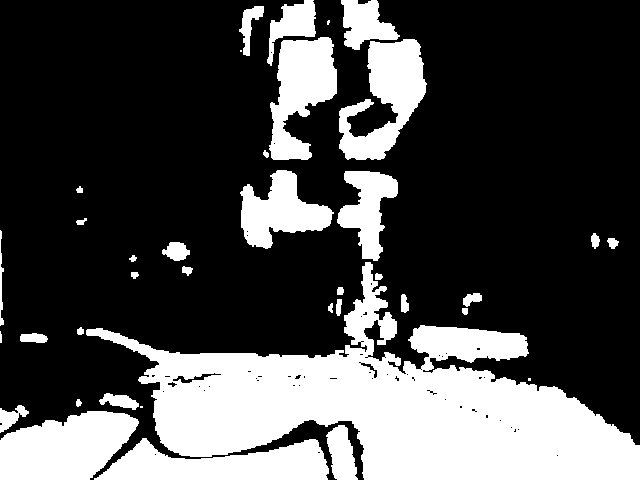
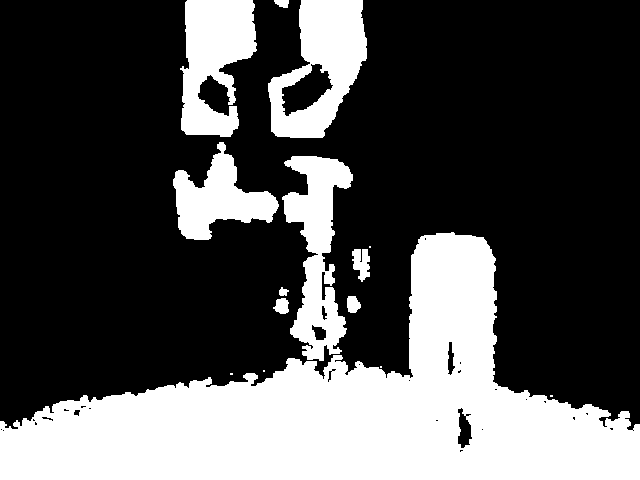
Added new place functions

diff --git a/Vision/CamaraMontada/cam_utils.py b/Vision/CamaraMontada/cam_utils.py
@@ -1,0 +1,100 @@
+import cv2
+import numpy as np
+
+def buscar_espacio_vacío():
+    """
+    Busca un hueco vacío en la zona de trabajo del robot para dejar una lata.
+
+    Devuelve:
+        (x_free, y_free): Coordenadas del centro de la casilla vacía, o None si no se encuentra.
+    """
+
+    cap = cv2.VideoCapture(3)
+    ret, frame = cap.read()
+    cap.release()
+
+    if not ret:
+        print("Error al capturar la imagen")
+        return None
+
+    gray = cv2.cvtColor(frame, cv2.COLOR_BGR2GRAY)
+
+    resultado, img_out = buscar_casilla_vacia(gray)
+
+    if resultado is None:
+        print("No se encontró ninguna casilla vacía")
+        return None
+
+    i, j = resultado
+
+    cv2.imshow("Resultado", img_out)
+    cv2.waitKey(0)
+    cv2.destroyAllWindows()
+
+    x_0 = 0  # Coordenada x de la primera cuadrícula
+    y_0 = 0  # Coordenada y de la primera cuadrícula
+    dx = 0.15  # Anchura aprox de la cuadrícula (m)
+    dy = 0.15  # Altura aprox de la cuadrícula (m)
+
+    return (x_0 + j * dx, y_0 + i * dy)
+
+    
+
+
+def buscar_casilla_vacia(gray_img):
+    """
+    Busca la primera casilla sin gradientes fuertes en una cuadrícula centrada en la imagen.
+    Los parámetros están fijados dentro de la función.
+
+    Parámetro:
+        gray_img (np.ndarray): Imagen en escala de grises.
+
+    Devuelve:
+        (i, j): Índices de la primera casilla vacía encontrada (columna, fila). None si no se encuentra.
+        annotated_img (np.ndarray): Imagen con la cuadrícula y la casilla vacía dibujadas.
+    """
+
+    # Parámetros fijos
+    delta_x = 50  # ancho de casilla
+    delta_y = 50  # alto de casilla
+    grid_cols = 8
+    grid_rows = 8
+    gradient_threshold = 30
+
+    # Tamaño de la cuadrícula
+    grid_width = delta_x * grid_cols
+    grid_height = delta_y * grid_rows
+
+    # Punto superior izquierdo (centrado)
+    h, w = gray_img.shape
+    top_left_x = w // 2 - grid_width // 2
+    top_left_y = h // 2 - grid_height // 2
+
+    # Calcular gradiente
+    grad_x = cv2.Sobel(gray_img, cv2.CV_64F, 1, 0, ksize=3)
+    grad_y = cv2.Sobel(gray_img, cv2.CV_64F, 0, 1, ksize=3)
+    grad_mag = cv2.magnitude(grad_x, grad_y)
+
+    # Imagen anotada
+    annotated_img = cv2.cvtColor(gray_img, cv2.COLOR_GRAY2BGR)
+
+    for j in range(grid_rows):
+        for i in range(grid_cols):
+            x = top_left_x + i * delta_x
+            y = top_left_y + j * delta_y
+            roi = grad_mag[y:y + delta_y, x:x + delta_x]
+
+            if roi.shape[0] == 0 or roi.shape[1] == 0:
+                continue
+
+            max_grad = np.max(roi)
+            color = (255, 0, 0)  # azul por defecto
+
+            if max_grad < gradient_threshold:
+                color = (0, 255, 0)  # verde si es vacía
+                cv2.rectangle(annotated_img, (x, y), (x + delta_x, y + delta_y), color, 2)
+                return (i, j), annotated_img
+
+            cv2.rectangle(annotated_img, (x, y), (x + delta_x, y + delta_y), color, 1)
+
+    return None, annotated_img

diff --git a/Movement/Pruebas.py b/Movement/Pruebas.py
@@ -11,6 +11,8 @@ from RTDE_Commands import CloseGrip
 from RTDE_Commands import OpenGrip
 from RTDE_Commands import getActualTCPPose
 from RTDE_Commands import moveJ_IK
+from RTDE_Commands import disconnect_robot
+
 
 from time import sleep
 
@@ -18,6 +20,7 @@ from time import sleep
 
 
 connect_robot()
+# disconnect_robot()
 speed=3.14
 acceleration=40
 
@@ -35,6 +38,24 @@ target_home=[-4.702066961918966, -1.556692199116089, -0.02610006369650364, -1.52
 target_pick_aprox=[0.04505563001505332, 0.39932209660698537, 0.253729100513867, 2.027830746211192, 2.332344155878057, -0.0032578819630350144]#Punto aprox pick(cart) /Lo da la camara
 target_place_aprox=[-0.01481715293329484, -0.4292486261660905, 0.25364937298676193, -3.0995809022198375, -0.3138589113264997, 0.09018782271918903]#Punto aprox place(cart)
 target_pick_avoid=[-4.479692999516622, -1.8883339367308558, -0.3588854968547821, -2.422844549218649, 1.5980188846588135, -0.14949161211122686] #Corrdenadas para evitar las otras latas(art)
+
+
+spot1_look= [-0.6713736693011683, -2.2307025394835414, -0.30557548999786377, -1.8621145687498988, 1.5137308835983276, -3.343515698109762]
+spot2_look=[-0.9616254011737269, -2.230446001092428, -0.30562692880630493, -1.8544603786864222, 1.5558314323425293, -3.4482832590686243]
+spot3_look=[-1.2912572065936487, -2.230882307092184, -0.30519211292266846, -1.8942200146117152, 1.485101342201233, -3.166631285344259]
+spot4_look=[-1.6354077498065394, -2.2297684154906214, -0.3059040307998657, -1.858605524102682, 1.4845449924468994, -3.2415457407580774]
+
+
+
+spot1_take=[-0.6728633085833948, -2.23075070003652, -0.305356502532959, -2.1807872257628382, 1.570326805114746, -1.670053784047262]
+spot2_take=[-0.9643738905536097, -2.2303158245482386, -0.30557548999786377, -2.181622167626852, 1.564204454421997, -1.6701462904559534]
+spot3_take=[-1.2916091124164026, -2.2308742008604945, -0.3051762580871582, -2.180739542047018, 1.570370078086853, -1.670065704976217]
+spot4_take=[-1.6367858091937464, -2.2297517261900843, -0.30572381615638733, -2.181605478326315, 1.564192533493042, -1.6701529661761683]
+
+
+
+
+
 
 moveJ(target_home, speed, acceleration)
 # sleep(0.2)
@@ -69,3 +90,16 @@ moveJ(target_home, speed, acceleration)
 # print("LLEGADA")
 getActualJointPosition()
 
+
+
+
+
+# moveJ(spot3_look, 1, acceleration)
+# sleep(1)
+# moveJ(spot3_take,1,acceleration)
+# sleep(1)
+# descendRobotZ(0.09,1,acceleration)
+# sleep(1)
+# ascendRobotZ(0.09,1,acceleration)
+# sleep(1)
+# getActualJointPosition()

diff --git a/Vision/CamaraMontada/find_empty_spaces.py b/Vision/CamaraMontada/find_empty_spaces.py
@@ -1,0 +1,54 @@
+import cv2
+import numpy as np
+
+# Parámetros
+delta_x = 50  # ancho de cada casilla (píxeles)
+delta_y = 50  # alto de cada casilla (píxeles)
+gradient_threshold = 30  # umbral para detectar "cambios fuertes" de intensidad
+
+# Captura desde la webcam
+cap = cv2.VideoCapture(0)
+ret, frame = cap.read()
+cap.release()
+
+if not ret:
+    print("Error al capturar la imagen")
+    exit()
+
+# Convertimos a escala de grises
+gray = cv2.cvtColor(frame, cv2.COLOR_BGR2GRAY)
+
+# Calculamos el gradiente con Sobel
+grad_x = cv2.Sobel(gray, cv2.CV_64F, 1, 0, ksize=3)
+grad_y = cv2.Sobel(gray, cv2.CV_64F, 0, 1, ksize=3)
+gradient_magnitude = cv2.magnitude(grad_x, grad_y)
+
+# Región central
+h, w = gray.shape
+center_x, center_y = w // 2, h // 2
+grid_width = delta_x * 5
+grid_height = delta_y * 5
+top_left_x = 50
+top_left_y = 50
+
+# Recorremos la cuadrícula
+for j in range(grid_height // delta_y):
+    for i in range(grid_width // delta_x):
+        x = top_left_x + i * delta_x
+        y = top_left_y + j * delta_y
+        roi = gradient_magnitude[y:y + delta_y, x:x + delta_x]
+
+        max_grad = np.max(roi)
+        if max_grad < gradient_threshold:
+            print(f"Casilla vacía (sin gradientes fuertes) en fila {j}, columna {i}")
+            # Dibujamos un rectángulo verde sobre la casilla detectada
+            cv2.rectangle(frame, (x, y), (x + delta_x, y + delta_y), (0, 255, 0), 2)
+            break
+    else:
+        continue
+    break
+
+# Mostrar imagen con casilla resaltada
+cv2.imshow("Resultado", frame)
+cv2.waitKey(0)
+cv2.destroyAllWindows()

diff --git a/Movement/RTDE_Commands.py b/Movement/RTDE_Commands.py
@@ -30,6 +30,10 @@ def connect_robot():
         print("Unable to connect to the robot")
         return False
     
+def disconnect_robot():
+    rtde_c.disconnect()
+    
+    
 def FreeMovement():
     """
 Libera todas las articulaciones del robot para poder mover manualmente el robot con total libertad.  

diff --git a/Launcher/Launch.py b/Launcher/Launch.py
@@ -37,7 +37,7 @@ ELECCION_FILE= "eleccion.json"
 def waiterRobot(SelectedDrink):
     width=0.1
     height=0.1
-    d_cam_robot=0.763  #Cambiar
+    d_cam_robot=0.775  #Cambiar
     speed=2.9
     #Call GUI (funcion ...) #aqui que nos diga la bebida deseada
     

diff --git a/Vision/CamaraMontada/main_example.py b/Vision/CamaraMontada/main_example.py
@@ -1,0 +1,5 @@
+from cam_utils import buscar_espacio_vacío
+
+if __name__ == "__main__":
+    x, y = buscar_espacio_vacío()
+    print(f"Espacio vacío encontrado en: x = {x:.2f} m, y = {y:.2f} m")
